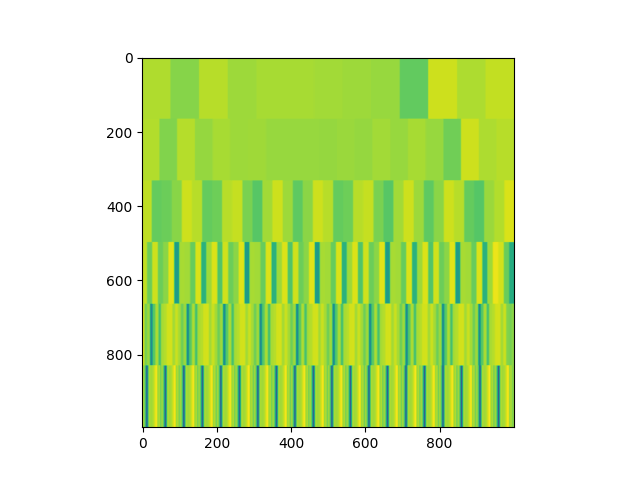
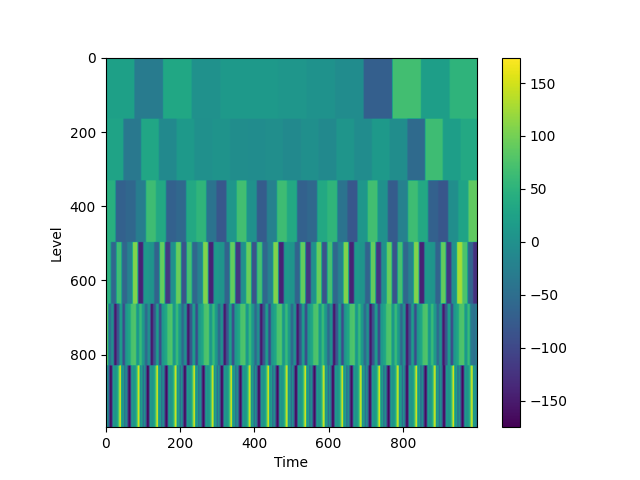
Improved creating transform result vizualization

diff --git a/imagelib/generate.py b/imagelib/generate.py
@@ -16,27 +16,50 @@ def saveImage(plt, filename):
     matplotlib.pyplot.savefig(filename)
     plt.clf()
 
-def generateImage(coeffs, x, y, filename):
+def prepare_standard_scale(max_value):
+    return lambda x: int(x*(175/max_value))
+
+def prepare_log_scale(max_value):
+    log_scale = math.pow(max_value, 1/175)
+    print("Log scale")
+    print(log_scale)
+    return lambda x: int(math.log(x, log_scale))
+
+def get_color(value, scale_pos, scale_neg):
+    if value == 0:
+        return [0,0,0]
+    elif value > 0:
+        return [int(scale_pos(value)), 0, 0]
+    elif value < 0:
+        return [0, int(scale_neg(-value)), 0]
+
+def generateImage(coeffs, x, y, filename, log_scale = False):
     # odrzucamy niepotrzeby współczynnik aproksymacji
     coeffs = coeffs[1:]
     level = len(coeffs)
 
     maxVal = getMax(coeffs)
     minVal = getMin(coeffs)
-    scale_level = 255/(maxVal-minVal)
     # zamiana listy na postać, która umożliwia stworzenie obrazka
     # wyrównanie list do równej długości
+
+    if log_scale == True:
+        scale_pos = prepare_log_scale(maxVal)
+        scale_neg = prepare_log_scale(-minVal)
+    else:
+        scale_pos = prepare_standard_scale(maxVal)
+        scale_neg = prepare_standard_scale(-minVal)
+
     for i in range(0, level):
         coeffs[i] = multiplyList(coeffs[i], 2**(level-1-i))
         coeffs[i] = scale_list(coeffs[i], x)
-        coeffs[i] = [int((elem-minVal)*scale_level) for elem in coeffs[i]]
+        coeffs[i] = [get_color(elem, scale_pos, scale_neg) for elem in coeffs[i]]
 
     y_scale = max(1, y // level)
     img_ready_table = prepare_table(coeffs, y_scale)
-
     H = np.array(img_ready_table)
+
     colormap = plt.imshow(H)
-    cbar = plt.colorbar(colormap)
     plt.xlabel("Time")
     plt.ylabel("Level")
     return plt

diff --git a/imagelib/test.py b/imagelib/test.py
@@ -4,7 +4,6 @@ from scipy.io import wavfile
 import os
 
 curr = os.getcwd()
-print(curr)
 
 sys.path.insert(0, '../waveletlib')
 from transform import Transform
@@ -14,16 +13,17 @@ from Daubechies import Daubechies
 x = [1,2,3,4,3,6,2,8,1,2,3,4,3] * 40
 
 wave = Transform(Daubechies(3))
-# coeffs = wave.decompose(x, 6)
+#coeffs = wave.decompose(x, 6)
 #
-# plt = generate.generateImage(coeffs, 1000, 1000, "test1")
-# generate.saveImage(plt, "test1")
+#plt = generate.generateImage(coeffs, 1000, 1000, "test1")
+#generate.saveImage(plt, "test1")
 
-# samplerate, data = wavfile.read('61300')
-# coeffs = wave.decompose(data, 20)
-# plt = generate.generateImage(coeffs, 1000, 1000, "test2")
-# generate.saveImage(plt, "test2")
-
+samplerate, data = wavfile.read('61300')
+coeffs = wave.decompose(data, 10)
+plt = generate.generateImage(coeffs, 1000, 1000, "test2", log_scale=False)
+generate.saveImage(plt, "test2")
+plt = generate.generateImage(coeffs, 1000, 1000, "test2", log_scale=True)
+generate.saveImage(plt, "test2_log")
 
 #samplerate, data = wavfile.read('231048')
 #coeffs = wave.decompose(data, 20)
@@ -39,6 +39,6 @@ def create_images(path, save_folder_name):
         save_path = os.path.join("Images", "Daubechies3", save_folder_name, filename)
         generate.saveImage(plt, save_path)
 
-create_images(os.path.join("Cut_Data", "Common-Loon-WAV"), "Common-Loon")
+#create_images(os.path.join("Cut_Data", "Common-Loon-WAV"), "Common-Loon")
 #create_images(os.path.join("Cut_Data", "Eurasian-Skylark-WAV"), "Eurasian-Skylark")
 #create_images(os.path.join("Cut_Data", "House-Sparrow-WAV"), "House-Sparrow")

diff --git a/waveletlib/test.py b/waveletlib/test.py
@@ -40,4 +40,4 @@ print("pywt library:")
 coeffs = pywt.wavedec(x, 'coif1', level=2, mode='symmetric')
 print(coeffs)
 
-draw_wavelet(Daubechies(2))
+draw_wavelet(Daubechies(3))
